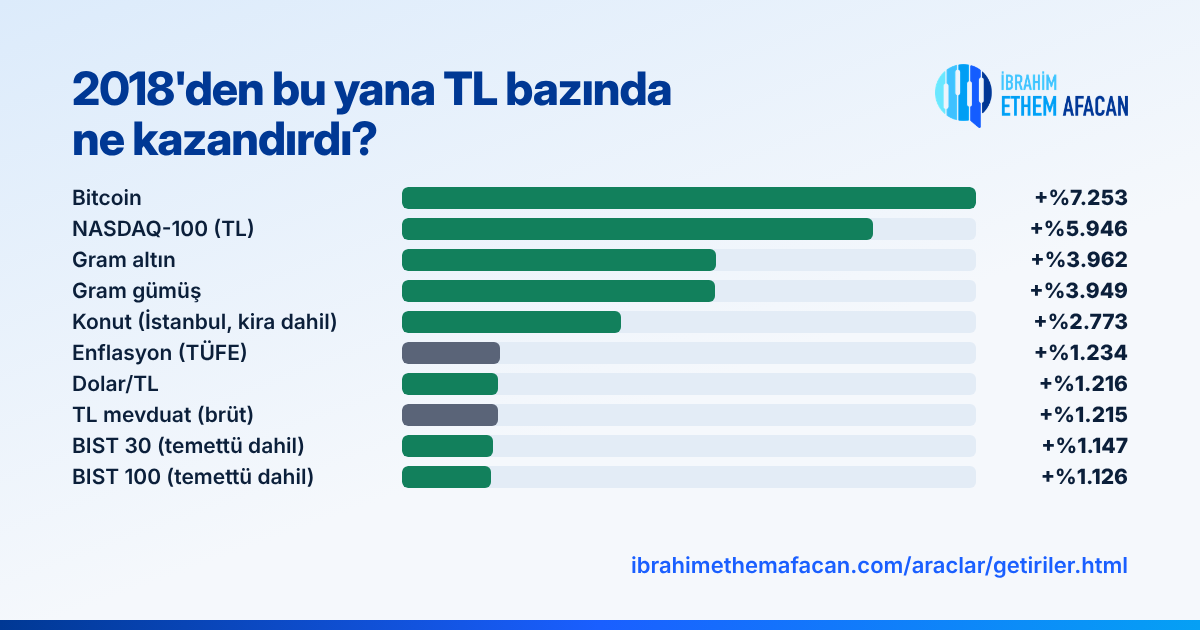
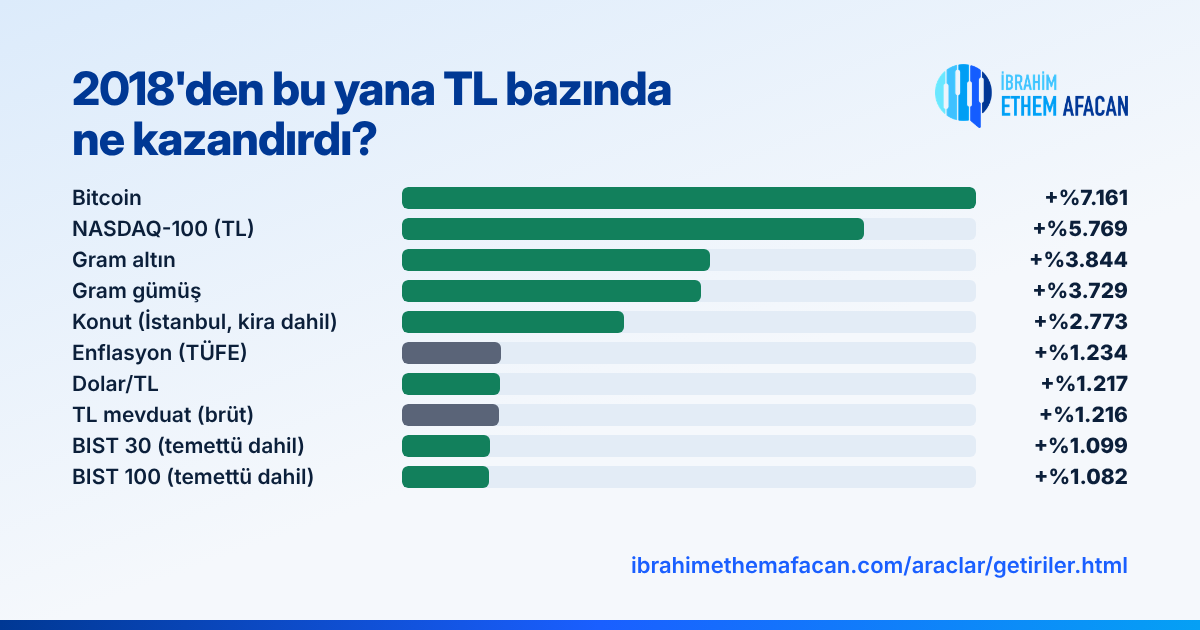
Getiriler ve makro dünya piyasaları: 30 Ekim 2026 kapanışı
Claude-Session: https://claude.ai/code/session_013mrGbpFadh1h9epcSoKPzq

diff --git a/araclar/getiriler.html b/araclar/getiriler.html
@@ -11,14 +11,14 @@
   <meta property="og:title" content="Yatırım Araçlarının Getirileri: 2018'den bu yana TL bazında ne kazandırdı?">
   <meta property="og:description" content="2018'den bu yana TL bazında gram altın, gram gümüş, BIST 100 ve BIST 30 (temettü dahil), NASDAQ-100, dolar/TL, bitcoin ve İstanbul'da konutun (kira dahil) mevduat ve enflasyonla karşılaştırmalı yıllık ve kümülatif getirileri.">
   <meta property="og:url" content="https://ibrahimethemafacan.com/araclar/getiriler.html">
-  <meta property="og:image" content="https://ibrahimethemafacan.com/img/og-getiriler.png?v=9">
+  <meta property="og:image" content="https://ibrahimethemafacan.com/img/og-getiriler.png?v=10">
   <meta property="og:image:width" content="1200">
   <meta property="og:image:height" content="630">
   <meta name="twitter:card" content="summary_large_image">
   <meta name="twitter:site" content="@ibrahim___ethem">
   <meta name="twitter:title" content="Yatırım Araçlarının Getirileri: 2018'den bu yana TL bazında ne kazandırdı?">
   <meta name="twitter:description" content="2018'den bu yana TL bazında gram altın, gram gümüş, BIST 100 ve BIST 30 (temettü dahil), NASDAQ-100, dolar/TL, bitcoin ve İstanbul'da konutun (kira dahil) mevduat ve enflasyonla karşılaştırmalı yıllık ve kümülatif getirileri.">
-  <meta name="twitter:image" content="https://ibrahimethemafacan.com/img/og-getiriler.png?v=9">
+  <meta name="twitter:image" content="https://ibrahimethemafacan.com/img/og-getiriler.png?v=10">
   <link rel="icon" href="/favicon.ico" sizes="any">
   <link rel="icon" type="image/png" sizes="32x32" href="/img/favicon-32.png">
   <link rel="icon" type="image/png" sizes="192x192" href="/img/favicon-192.png">
@@ -49,7 +49,7 @@
   <main class="wrap narrow">
     <article class="prose wide">
       <h1>Yatırım araçlarının getirileri</h1>
-      <p>2018 başından 29 Ekim 2026'ya kadar, Türk lirası bazında. Bir aracı seçin; her yılın getirisini ve dönem başından itibaren biriken toplam getiriyi görün.</p>
+      <p>2018 başından 30 Ekim 2026'ya kadar, Türk lirası bazında. Bir aracı seçin; her yılın getirisini ve dönem başından itibaren biriken toplam getiriyi görün.</p>
     </article>
 
     <section class="race" aria-label="Toplam getiri sıralaması">
@@ -71,7 +71,7 @@
 
     <article class="prose">
       <h2>Notlar</h2>
-      <p>2026 satırı yıl başından 29 Ekim 2026'ya kadarki dönemi kapsar. BIST 100 ve BIST 30 için, Borsa İstanbul 29 Ekim'de kapalı olduğundan 28 Ekim yarım gün kapanışı kullanılmıştır. Kümülatif getiri, yıllık getirilerin bileşik olarak çarpılmasıyla bulunur; bu yüzden yıllık oranların basit toplamından farklıdır. BIST 100 ve BIST 30 getirileri temettüler dahil hesaplanmıştır. NASDAQ-100, endeks puanının dolar/TL kuruyla çarpılmasıyla TL'ye çevrilmiştir; temettüler hariçtir. Gram altın GLDGR kapanışlarından, gram gümüş ise XAGTRY (ons gümüş/TL) kapanışlarının 31,1035'e bölünerek grama çevrilmesiyle hesaplanmıştır. Bitcoin'in yıl sonu değeri, yılın son günündeki BTC/USDT kapanışının dolar/TL kuruyla çarpılmasıyla bulunmuştur. Konut getirisi, İstanbul konut fiyatlarındaki değişim (TCMB Konut Fiyat Endeksi) ile brüt kira getirisinin toplamıdır. Kira getirisi, TCMB'nin İstanbul'da değerlemesi yapılan konutlara ait birim kira ve birim fiyat verilerinden hesaplanmıştır; aidat, vergi ve boş kalma süresi gibi masraflar hariçtir. TL mevduat getirisi, TCMB'nin açıkladığı 3 aya kadar vadeli TL mevduat faizlerinin (ağırlıklı ortalama, akım) aylık ortalamalarıyla, mevduatın her üç ayda bir yenilendiği varsayılarak hesaplanmıştır; stopaj öncesi brüt getiridir. Enflasyon, TÜİK'in açıkladığı tüketici fiyat endeksinin (TÜFE) Aralıktan Aralığa değişimidir; 2026 satırı Eylül 2026'ya kadarki değişimi gösterir. Geçmiş getiriler gelecekteki getirilerin göstergesi değildir.</p>
+      <p>2026 satırı yıl başından 30 Ekim 2026'ya kadarki dönemi kapsar. Kümülatif getiri, yıllık getirilerin bileşik olarak çarpılmasıyla bulunur; bu yüzden yıllık oranların basit toplamından farklıdır. BIST 100 ve BIST 30 getirileri temettüler dahil hesaplanmıştır. NASDAQ-100, endeks puanının dolar/TL kuruyla çarpılmasıyla TL'ye çevrilmiştir; temettüler hariçtir. Gram altın GLDGR kapanışlarından, gram gümüş ise XAGTRY (ons gümüş/TL) kapanışlarının 31,1035'e bölünerek grama çevrilmesiyle hesaplanmıştır. Bitcoin'in yıl sonu değeri, yılın son günündeki BTC/USDT kapanışının dolar/TL kuruyla çarpılmasıyla bulunmuştur. Konut getirisi, İstanbul konut fiyatlarındaki değişim (TCMB Konut Fiyat Endeksi) ile brüt kira getirisinin toplamıdır. Kira getirisi, TCMB'nin İstanbul'da değerlemesi yapılan konutlara ait birim kira ve birim fiyat verilerinden hesaplanmıştır; aidat, vergi ve boş kalma süresi gibi masraflar hariçtir. TL mevduat getirisi, TCMB'nin açıkladığı 3 aya kadar vadeli TL mevduat faizlerinin (ağırlıklı ortalama, akım) aylık ortalamalarıyla, mevduatın her üç ayda bir yenilendiği varsayılarak hesaplanmıştır; stopaj öncesi brüt getiridir. Enflasyon, TÜİK'in açıkladığı tüketici fiyat endeksinin (TÜFE) Aralıktan Aralığa değişimidir; 2026 satırı Eylül 2026'ya kadarki değişimi gösterir. Geçmiş getiriler gelecekteki getirilerin göstergesi değildir.</p>
     </article>
   </main>
 
@@ -84,40 +84,38 @@
   </footer>
 
   <script>
-    // Yıllık değişim (%) ve kümülatif (%) — 2026: 29 Ekim 2026'ya kadar
+    // Yıllık değişim (%) ve kümülatif (%) — 2026: 30 Ekim 2026'ya kadar
     var DATA = [
       { id: 'altin', name: 'Gram altın', color: '#B8862B',
-        foot: '158,80 TL → 6.450,85 TL',
-        rows: [[2018,37.4,37.4],[2019,33.1,82.8],[2020,56.4,186.0],[2021,72.0,392.0],[2022,40.5,591.1],[2023,78.3,1132],[2024,52.5,1779],[2025,99.5,3648],['2026*',8.4,3962]] },
+        foot: '158,80 TL → 6.263,19 TL',
+        rows: [[2018,37.4,37.4],[2019,33.1,82.8],[2020,56.4,186.0],[2021,72.0,392.0],[2022,40.5,591.1],[2023,78.3,1132],[2024,52.5,1779],[2025,99.5,3648],['2026*',5.2,3844]] },
       { id: 'gumus', name: 'Gram gümüş', color: '#8A9BA8',
-        foot: '2,07 TL → 83,64 TL',
-        rows: [[2018,27.4,27.4],[2019,29.8,65.5],[2020,84.6,205.5],[2021,57.4,380.8],[2022,45.0,597.0],[2023,56.7,992.2],[2024,45.7,1491],[2025,198.4,4648],['2026*',-14.7,3949]] },
+        foot: '2,07 TL → 79,08 TL',
+        rows: [[2018,27.4,27.4],[2019,29.8,65.5],[2020,84.6,205.5],[2021,57.4,380.8],[2022,45.0,597.0],[2023,56.7,992.2],[2024,45.7,1491],[2025,198.4,4648],['2026*',-19.4,3729]] },
       { id: 'bist', name: 'BIST 100 (temettü dahil)', tab: 'BIST 100', color: '#0F6B57',
-        star: '* 28 Ekim 2026 kapanışı itibarıyla (Borsa İstanbul yarım gün işlem gördü). ',
         foot: 'Temettüler yeniden yatırılmış kabul edilir.',
-        rows: [[2018,-18.1,-18.1],[2019,29.7,6.2],[2020,30.9,39.0],[2021,30.0,80.8],[2022,206.5,454.0],[2023,39.3,671.8],[2024,34.9,941.1],[2025,17.0,1119],['2026*',0.6,1126]] },
+        rows: [[2018,-18.1,-18.1],[2019,29.7,6.2],[2020,30.9,39.0],[2021,30.0,80.8],[2022,206.5,454.0],[2023,39.3,671.8],[2024,34.9,941.1],[2025,17.0,1119],['2026*',-3.1,1082]] },
       { id: 'bist30', name: 'BIST 30 (temettü dahil)', tab: 'BIST 30', color: '#0B5A48',
-        star: '* 28 Ekim 2026 kapanışı itibarıyla (Borsa İstanbul yarım gün işlem gördü). ',
         foot: 'Temettüler yeniden yatırılmış kabul edilir.',
-        rows: [[2018,-16.7,-16.7],[2019,25.6,4.6],[2020,19.5,25.0],[2021,27.9,59.9],[2022,203.4,385.2],[2023,38.6,572.4],[2024,37.5,824.6],[2025,16.3,975.3],['2026*',16.0,1147]] },
+        rows: [[2018,-16.7,-16.7],[2019,25.6,4.6],[2020,19.5,25.0],[2021,27.9,59.9],[2022,203.4,385.2],[2023,38.6,572.4],[2024,37.5,824.6],[2025,16.3,975.3],['2026*',11.5,1099]] },
       { id: 'ndx', name: 'NASDAQ-100 (TL)', tab: 'NASDAQ-100', color: '#2E5AAC',
-        foot: '24.246 TL → 1.466.938 TL. Endeks puanı, dolar/TL kuruyla TL\'ye çevrilmiştir; temettüler hariçtir.',
-        rows: [[2018,38.2,38.2],[2019,55.1,114.3],[2020,84.5,295.2],[2021,126.1,793.7],[2022,-5.5,744.2],[2023,143.2,1953],[2024,49.3,2966],[2025,45.8,4370],['2026*',35.2,5946]] },
+        foot: '24.246 TL → 1.423.966 TL. Endeks puanı, dolar/TL kuruyla TL\'ye çevrilmiştir; temettüler hariçtir.',
+        rows: [[2018,38.2,38.2],[2019,55.1,114.3],[2020,84.5,295.2],[2021,126.1,793.7],[2022,-5.5,744.2],[2023,143.2,1953],[2024,49.3,2966],[2025,45.8,4370],['2026*',31.3,5769]] },
       { id: 'usd', name: 'Dolar/TL', color: '#3B5B8C',
-        foot: '3,79 TL → 49,89 TL',
-        rows: [[2018,39.7,39.7],[2019,12.4,57.0],[2020,25.0,96.2],[2021,80.3,253.6],[2022,39.6,393.6],[2023,57.5,677.6],[2024,20.0,833.4],[2025,21.4,1033],['2026*',16.1,1216]] },
+        foot: '3,79 TL → 49,95 TL',
+        rows: [[2018,39.7,39.7],[2019,12.4,57.0],[2020,25.0,96.2],[2021,80.3,253.6],[2022,39.6,393.6],[2023,57.5,677.6],[2024,20.0,833.4],[2025,21.4,1033],['2026*',16.3,1217]] },
       { id: 'btc', name: 'Bitcoin', color: '#E8891C',
-        star: '* 29 Ekim 2026 kapanışı itibarıyla. ',
-        foot: '52.961 TL → 3.923.376 TL. TL fiyatı, BTC/USDT fiyatı ile dolar/TL kurunun çarpımıdır.',
-        rows: [[2018,-63.3,-63.3],[2019,119.7,-19.4],[2020,407.3,308.9],[2021,181.3,1050],[2022,-49.1,485.3],[2023,306.2,2278],[2024,162.9,6151],[2025,13.7,7005],['2026*',3.5,7253]] },
+        star: '* 30 Ekim 2026 akşamı itibarıyla. ',
+        foot: '52.961 TL → 3.874.330 TL. TL fiyatı, BTC/USDT fiyatı ile dolar/TL kurunun çarpımıdır.',
+        rows: [[2018,-63.3,-63.3],[2019,119.7,-19.4],[2020,407.3,308.9],[2021,181.3,1050],[2022,-49.1,485.3],[2023,306.2,2278],[2024,162.9,6151],[2025,13.7,7005],['2026*',2.2,7161]] },
       { id: 'konut', name: 'Konut (İstanbul/kira dahil)', tab: 'Konut', color: '#6B4E9B',
         star: '* Eylül 2026 itibarıyla (TCMB\'nin açıkladığı son veri; kira dokuz aylık). ',
         foot: 'İstanbul konut fiyat değişimi (TCMB) ile brüt kira getirisinin toplamıdır. Vergi ve masraflar hariçtir.',
         rows: [[2018,6.2,6.2],[2019,9.3,16.1],[2020,33.3,54.7],[2021,73.9,169.0],[2022,174.5,638.5],[2023,72.3,1172],[2024,31.9,1579],[2025,35.5,2175],['2026*',26.3,2773]] },
       { id: 'mevduat', name: 'TL mevduat (brüt)', tab: 'Mevduat', color: '#8A94A6', bench: true,
-        star: '* 29 Ekim 2026 itibarıyla (faiz verisi 16 Ekim haftasına kadar). ',
+        star: '* 30 Ekim 2026 itibarıyla (faiz verisi 16 Ekim haftasına kadar). ',
         foot: '3 aya kadar vadeli TL mevduatın her vade sonunda yenilendiği varsayılmıştır. Stopaj öncesi brüt getiridir.',
-        rows: [[2018,19.3,19.3],[2019,20.1,43.2],[2020,11.2,59.2],[2021,19.4,90.1],[2022,20.4,128.8],[2023,40.2,220.8],[2024,73.2,455.7],[2025,64.2,812.4],['2026*',44.1,1215]] },
+        rows: [[2018,19.3,19.3],[2019,20.1,43.2],[2020,11.2,59.2],[2021,19.4,90.1],[2022,20.4,128.8],[2023,40.2,220.8],[2024,73.2,455.7],[2025,64.2,812.4],['2026*',44.2,1216]] },
       { id: 'tufe', name: 'Enflasyon (TÜFE)', tab: 'Enflasyon', color: '#8A94A6', bench: true,
         star: '* Eylül 2026 itibarıyla (TÜİK\'in açıkladığı son veri). ',
         foot: 'Bir aracın kümülatif getirisi buradaki kümülatif enflasyondan yüksekse, o araç dönem boyunca enflasyonu yenmiştir.',
@@ -174,7 +172,7 @@
           '<td class="r rt-cum">' + pct(r[2], true) + '</td></tr>';
       }).join('');
       fitLabels();
-      document.getElementById('foot').textContent = (d.star || '* 29 Ekim 2026 itibarıyla. ') + d.foot;
+      document.getElementById('foot').textContent = (d.star || '* 30 Ekim 2026 itibarıyla. ') + d.foot;
     }
 
     // Oran her zaman çubuğun içinde; kısa çubuklar oranın sığacağı kadar uzatılır

diff --git a/araclar/makro.html b/araclar/makro.html
@@ -220,7 +220,7 @@
       <p class="unit">Milyar dolar</p>
       <div class="twrap"><table class="kt" id="t-etf"><thead><tr><th>Ay</th><th>Net akım</th></tr></thead><tbody></tbody><tfoot></tfoot></table></div>
       </details>
-      <p class="calc-note">Değerler 29 Ekim 2026 itibarıyladır; ABD endeksleri, emtialar ve dolar endeksi o günün akşam fiyatlarıdır ve gün sonu kapanışından farklı olabilir. Borsa İstanbul 29 Ekim'de tatil olduğu için BIST 100, 28 Ekim yarım gün kapanışıdır. Ekim değişimi Eylül sonu kapanışına, 2026 değişimi 2025 son kapanışına göredir. Dolara çevirmede EUR/USD, GBP/USD, USD/JPY, USD/KRW, USD/CNY ve USD/TRY kurlarının aynı tarihlerdeki değerleri kullanılmıştır. * Son değer, endeksin kendi para birimindeki puanıdır.</p>
+      <p class="calc-note">Değerler 30 Ekim 2026 itibarıyladır; ABD endeksleri, emtialar ve dolar endeksi o günün akşam fiyatlarıdır ve gün sonu kapanışından farklı olabilir. Dow Jones 29 Ekim kapanışıdır. Ekim değişimi Eylül sonu kapanışına, 2026 değişimi 2025 son kapanışına göredir. Dolara çevirmede EUR/USD, GBP/USD, USD/JPY, USD/KRW, USD/CNY ve USD/TRY kurlarının aynı tarihlerdeki değerleri kullanılmıştır. * Son değer, endeksin kendi para birimindeki puanıdır.</p>
     </section>
 
     <article class="prose">
@@ -344,9 +344,9 @@
     chart('c-cy',{type:'bar',sign:true,labels:D.cari.y.map(function(r){return r.y;}),fmt:function(v){return fB(v)+' milyar $';},fmtAxis:function(v){return (v<0?'−':'')+n0.format(Math.abs(v));},series:[{name:'Cari denge',color:UP,values:D.cari.y.map(function(r){return r.v;})}]});
 
     /* ---- dünya piyasaları ---- */
-    var DN_=[["S&P 500|ABD","b",0.7,11.8,7717.93],["Dow Jones|ABD","b",3.1,9.2,52475.1],["Nasdaq-100|ABD","b",-3.5,16.2,29347.86],["DAX|Almanya","b",1.9,1.1,26065.03],["FTSE 100|İngiltere","b",2.1,7.5,10745.76],["CAC 40|Fransa","b",-1.2,-6.9,7981.52],["Nikkei 225|Japonya","b",-3.4,27.7,64659.47],["KOSPI|Güney Kore","b",-11.9,52.1,5937.66],["Şanghay|Çin","b",-4.4,-3.4,3651.43],["BIST 100|Türkiye","b",-8.1,-14.5,11165.44],["Altın|ons","e",-3.2,-6.7,4023.97],["Gümüş|ons","e",-13.3,-26.2,52.47],["Brent petrol|varil","e",12.0,79.4,109.23],["Dolar endeksi|DXY","d",0.5,3.8,102.04]];
+    var DN_=[["S&P 500|ABD","b",-0.9,10.0,7596.28],["Dow Jones|ABD","b",2.8,8.9,52342.56],["Nasdaq-100|ABD","b",-6.2,12.9,28509.24],["DAX|Almanya","b",1.0,0.2,25822.11],["FTSE 100|İngiltere","b",2.2,7.6,10723.79],["CAC 40|Fransa","b",-1.5,-7.2,7959.24],["Nikkei 225|Japonya","b",-5.2,25.3,63290.11],["KOSPI|Güney Kore","b",-14.7,47.3,5730.74],["Şanghay|Çin","b",-5.8,-4.8,3599.02],["BIST 100|Türkiye","b",-11.6,-17.8,10759.56],["Altın|ons","e",-6.2,-9.6,3900.69],["Gümüş|ons","e",-18.6,-30.7,49.26],["Brent petrol|varil","e",16.0,85.8,113.14],["Dolar endeksi|DXY","d",0.4,3.7,101.92]];
     var KAT={b:['Borsa',C1],e:['Emtia',C2],d:['Döviz',C3]};
-    var US10={v:[1.088,1.426,1.739,1.625,1.584,1.472,1.23,1.308,1.487,1.562,1.443,1.514,1.793,1.834,2.339,2.931,2.853,3.017,2.651,3.195,3.827,4.05,3.687,3.88,3.506,3.914,3.476,3.424,3.642,3.839,3.959,4.106,4.579,4.931,4.362,3.881,3.978,4.25,4.205,4.694,4.51,4.387,4.075,3.913,3.786,4.275,4.175,4.576,4.585,4.219,4.23,4.156,4.401,4.242,4.367,4.233,4.153,4.098,4.018,4.172,4.238,3.952,4.318,4.375,4.44,4.47,4.74,4.76,5.29,4.98]};
+    var US10={v:[1.088,1.426,1.739,1.625,1.584,1.472,1.23,1.308,1.487,1.562,1.443,1.514,1.793,1.834,2.339,2.931,2.853,3.017,2.651,3.195,3.827,4.05,3.687,3.88,3.506,3.914,3.476,3.424,3.642,3.839,3.959,4.106,4.579,4.931,4.362,3.881,3.978,4.25,4.205,4.694,4.51,4.387,4.075,3.913,3.786,4.275,4.175,4.576,4.585,4.219,4.23,4.156,4.401,4.242,4.367,4.233,4.153,4.098,4.018,4.172,4.238,3.952,4.318,4.375,4.44,4.47,4.74,4.76,5.29,4.96]};
     var ETF=[19,5.3,-12,6.6,-2,-8.9,3,18,10];
     var us10m=US10.v.map(function(v,i){return (2021+Math.floor(i/12))+'-'+(i%12+1);});
     fill('t-dn',DN_.map(function(r){var q=r[0].split('|');return '<tr><td>'+q[0]+' <span style="color:var(--muted)">('+q[1]+')</span></td><td>'+n2.format(r[4])+'</td><td>'+pc(r[2])+'</td><td>'+pc(r[3])+'</td></tr>';}).join(''));
